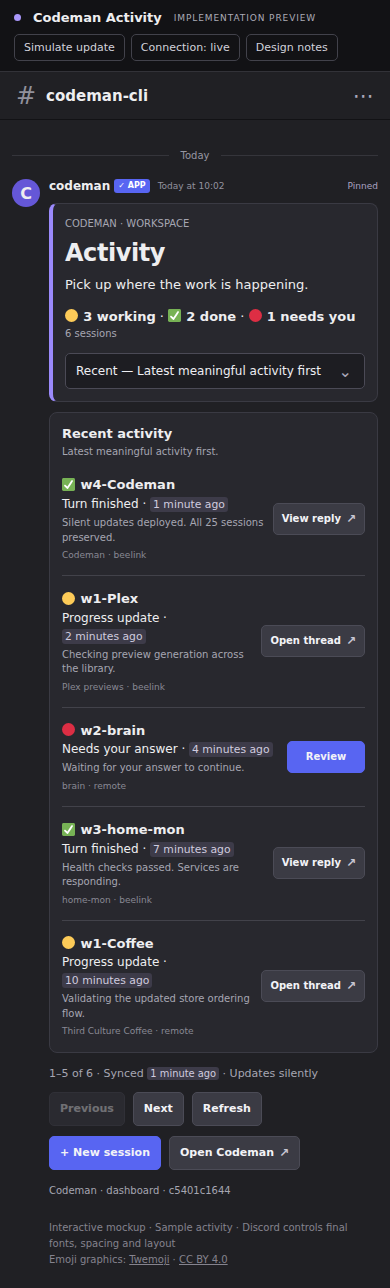
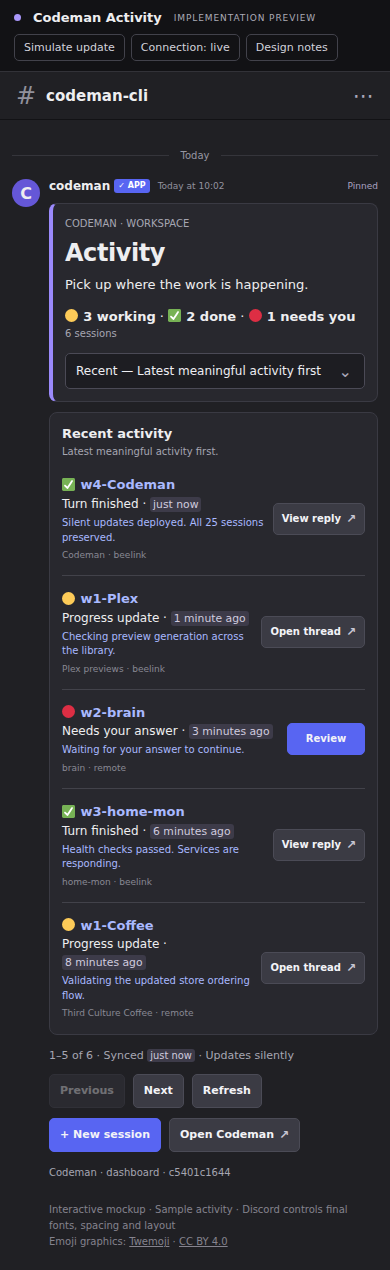
feat(discord): open threads from Activity names and previews (#171)

diff --git a/src/discord-native-ui.ts b/src/discord-native-ui.ts
@@ -1753,6 +1753,7 @@ export class DiscordNativeUi {
     for (const [i, { s, activity, finished, error }] of visible.entries()) {
       if (i) body.push({ type: 14, divider: true, spacing: 1 });
       const channel = this.host.channelForSession(s.id);
+      const threadUrl = channel ? `https://discord.com/channels/${this.host.config().guild}/${channel}` : undefined;
       const icon = s.pending || error ? '🔴' : s.exited ? '⚫' : s.working ? '🟡' : finished ? '✅' : '⚫';
       const labels = {
         prompt: 'Prompt submitted',
@@ -1802,11 +1803,13 @@ export class DiscordNativeUi {
           ),
           disabled: true,
         };
+      const heading = `${icon} ${activityText(s.name, 60)}`;
+      const preview = activityText(summary, 120);
       body.push({
         type: 9,
         components: [
           text(
-            `**${icon} ${activityText(s.name, 60)}**\n${label}${time}\n-# ${safe(summary, 120)}\n-# ${activityText(s.caseName, 40)} · ${activityText(s.host, 30)}`
+            `**${threadUrl ? `[${heading}](${threadUrl})` : heading}**\n${label}${time}\n-# ${threadUrl ? `[${preview}](${threadUrl})` : preview}\n-# ${activityText(s.caseName, 40)} · ${activityText(s.host, 30)}`
           ),
         ],
         accessory,

diff --git a/test/discord-native-ui.test.ts b/test/discord-native-ui.test.ts
@@ -1594,3 +1594,14 @@ it('does not bump an unchanged pending question when the hook registry is restor
   await f.command('codeman');
   expect(Object.values((await f.ui.store.snapshot()).activities)[0].at).toBe(f.host.now());
 });
+
+it('makes the session heading and preview direct thread links without making Review submit input', async () => {
+  const f = await fixture();
+  const view = await f.command('codeman');
+  const section = discordUiNodes(view.components).find((n) => n.type === 9)!;
+  const text = String((section.components as Array<{ content: string }>)[0].content);
+  const target = `https://discord.com/channels/${guild}/${channel}`;
+  expect(text).toContain(`[🟡 w1-Codeman](${target})`);
+  expect(text).toContain(`[Work is in progress.](${target})`);
+  expect(f.host.submit).not.toHaveBeenCalled();
+});

diff --git a/docs/reports/discord-activity-live/preview.css b/docs/reports/discord-activity-live/preview.css
@@ -713,3 +713,11 @@ dialog a {
 .bottomnote a {
   color: inherit;
 }
+
+.textdisplay a {
+  color: #a9b9ff;
+  text-decoration: none;
+}
+.textdisplay a:hover {
+  text-decoration: underline;
+}

diff --git a/docs/discord-bridge.md b/docs/discord-bridge.md
@@ -286,7 +286,7 @@ Embed limits and fields follow the [Discord message documentation](https://disco
 
 ### Native workspace controls (Full mode)
 
-Full mode maintains an owned session control card in each active session thread and a workspace dashboard in the configured control channel. The main channel uses a live **Activity** card with Recent as the shared default: five sessions ordered by meaningful native activity, relative timestamps, bounded assistant previews, direct thread/response links and guarded Review actions. Working, Finished and Needs you filters, pagination and Refresh open private views; they never change everyone’s main card. The shared card refreshes silently every 20 seconds. Finished requires native completion evidence and remains in its filter for one hour while the session is idle. Foreground/background/agent-wait work remains Working. Cosmetic updates and reads do not advance recency. Private activity metadata and bounded assistant excerpts survive restarts; user prompt bodies are not copied into the feed. If session reads fail while Discord remains reachable, the card retains its last rows and successful sync time with a connection warning. Cards are pinned when the bot has permission; missing pin permission leaves the card usable. Updates edit the existing owned message and do not ping users. `/codeman` opens a private dashboard; `!codeman ui`, `!codeman dashboard`, `!codeman settings`, `!codeman queue` and `!codeman results` are text fallbacks.
+Full mode maintains an owned session control card in each active session thread and a workspace dashboard in the configured control channel. The main channel uses a live **Activity** card with Recent as the shared default: five sessions ordered by meaningful native activity, relative timestamps, bounded assistant previews, direct thread/response links and guarded Review actions. Session names and preview text are clickable thread links; Discord does not support making container whitespace clickable. Working, Finished and Needs you filters, pagination and Refresh open private views; they never change everyone’s main card. The shared card refreshes silently every 20 seconds. Finished requires native completion evidence and remains in its filter for one hour while the session is idle. Foreground/background/agent-wait work remains Working. Cosmetic updates and reads do not advance recency. Private activity metadata and bounded assistant excerpts survive restarts; user prompt bodies are not copied into the feed. If session reads fail while Discord remains reachable, the card retains its last rows and successful sync time with a connection warning. Cards are pinned when the bot has permission; missing pin permission leaves the card usable. Updates edit the existing owned message and do not ping users. `/codeman` opens a private dashboard; `!codeman ui`, `!codeman dashboard`, `!codeman settings`, `!codeman queue` and `!codeman results` are text fallbacks.
 
 - **Session card:** shows the exact conversation, observed activity, reported model (or its source), launch approval policy, recent delivery and the latest visible user prompt when available. Interrupt reuses the existing task-bound confirmation. History, pending question, settings, queue, result/file actions and an exact web-session link are available from the card. Unknown runtime effort is shown as unknown; launch defaults are not treated as live verification.
 - **Delivery receipts:** received, input delivered, native submitted, working and finished are separate states. Transport acceptance does not prove submission or completion. An unconfirmed submission must be inspected before resending; neither gateway redelivery nor restart repeats it. Emoji reactions and the session control card show processing status; routine per-prompt delivery cards are not posted. Delivery tracking and downloadable execution receipts remain available. Legacy delivery cards are removed only after verifying their saved bot ownership and exact marker in an active owned thread; archived, foreign or edited messages are left alone.
